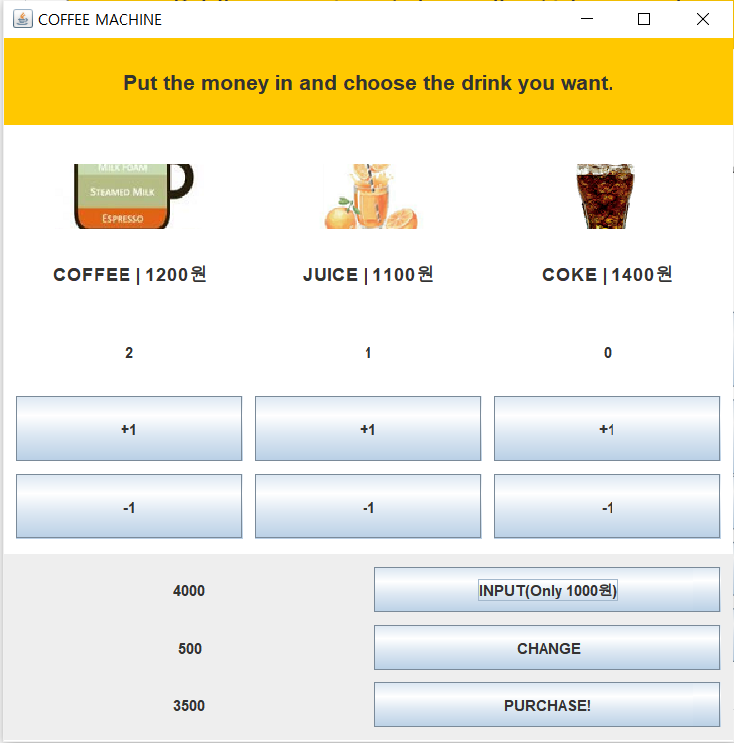
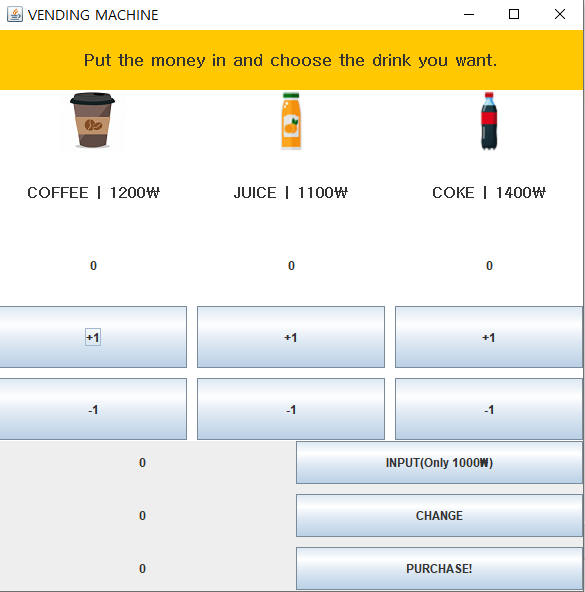
vending machine ( 사진 크기&모양 수정, 창 제목 수정 )

diff --git a/src/Machine.java b/src/Machine.java
@@ -68,7 +68,7 @@ public class Machine extends JFrame implements MouseListener
 
     public Machine()
     {
-        super("COFFEE MACHINE");
+        super("VENDING MACHINE");
 
         init();
         start();
